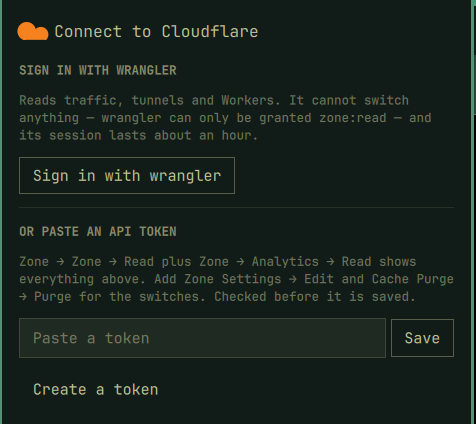
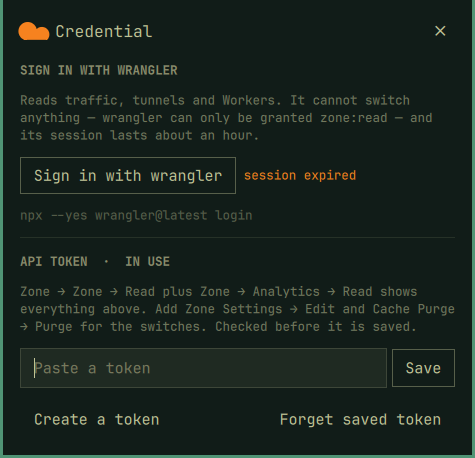
Show the panel as it is, and keep it that way
The three images the README points at were five commits old. The front page
showed a panel with no traffic deltas, no range selector, no routes section
and no account break — a version of the plugin that has not existed for weeks,
on the page anyone arriving from a link reads first.

They are stale because refreshing them was an hour of standing up the mock,
driving the panel by hand and cropping three screenshots without getting a
stray terminal in the frame. tests/capture.sh does it in a minute: it runs the
mock, points the plugin at it, takes the pictures on an empty workspace so the
backdrop cannot move between frames, and puts the token and the request path
back whether or not the run succeeds.

Wayland will not tell you where a window is, so each shot is taken twice, once
with the panel closed and once open, and the card is whatever changed between
them — which is also why the empty workspace is not optional. The result is
sanity-checked for the shape of a panel before it is written, so a backdrop
that did move fails the run instead of silently producing a picture of the
wallpaper.

diff --git a/README.md b/README.md
@@ -324,7 +324,7 @@ omarchy-shell cloudflarechy toggle
 ./tests/run.sh
 ```
 
-88 contract tests over `bin/cloudflarechy`, run against `tests/mock-api.py` —
+140 contract tests over `bin/cloudflarechy`, run against `tests/mock-api.py` —
 a stand-in shaped like the real API. They pin the things that are easy to break
 without noticing: the write guard, the security-level save *and* its fallback,
 the analytics query giving up one optional field at a time, 4xx never being
@@ -340,6 +340,21 @@ Two honest limits. A fixture cannot tell you Cloudflare still answers this way
 — only that the plugin still does; every field in the mock was checked against
 a live account once, and that is the whole of its authority. And the suite
 covers the script, not the QML: the panel is still verified by looking at it.
+
+## Screenshots
+
+```bash
+./tests/capture.sh
+```
+
+Regenerates the three images above against the mock, so the README shows the
+panel as it is rather than as it was several releases ago. It stands up
+`tests/mock-api.py`, points the plugin at it, takes the pictures on an empty
+workspace, and puts everything back — your token is moved aside and returned,
+and the request path goes back to Cloudflare whether or not the run succeeds.
+
+The panel in these images is always `example.com` and Acme Inc. No screenshot
+in this repo should ever contain a real account.
 
 The assertions were checked by breaking the code on purpose and confirming they
 went red. That found a real gap the first time — the security-level fallback

diff --git a/CHANGELOG.md b/CHANGELOG.md
@@ -2,6 +2,12 @@
 
 ## 0.8.1
 
+- The README screenshots are regenerated by `tests/capture.sh` instead of by
+  hand. They had gone five commits stale — the panel on the front page predated
+  the traffic deltas, the range selector, the routes section and the account
+  break — because refreshing them was an hour of fiddling nobody volunteers
+  for. It is now a minute, and it puts your token and the request path back
+  whether or not it succeeds.
 - The graph stops reporting an hour the pointer left. Hover was tracked by one
   MouseArea per bar setting an index on `entered` and clearing it on `exited`,
   and `exited` is not reliably delivered to a layer-shell surface: the readout
